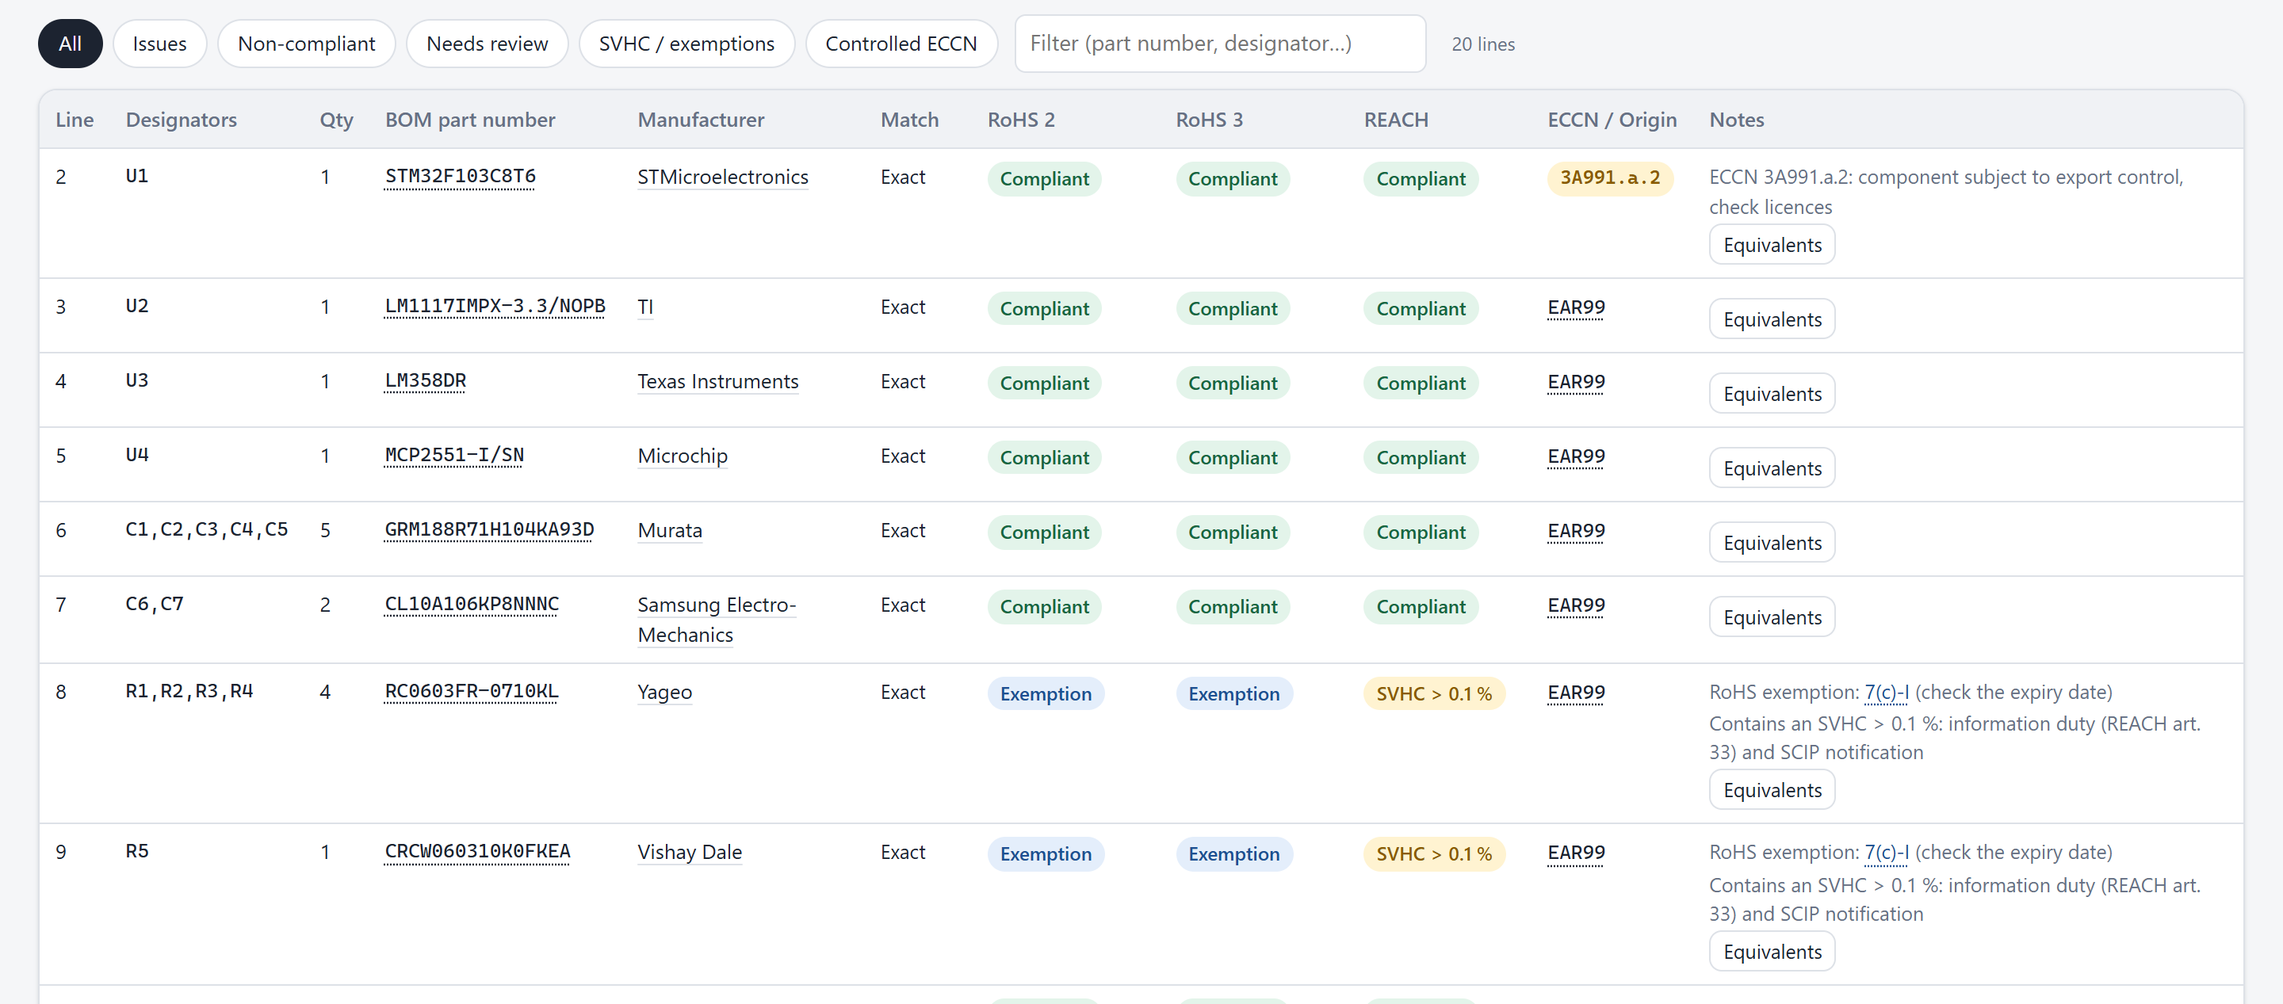
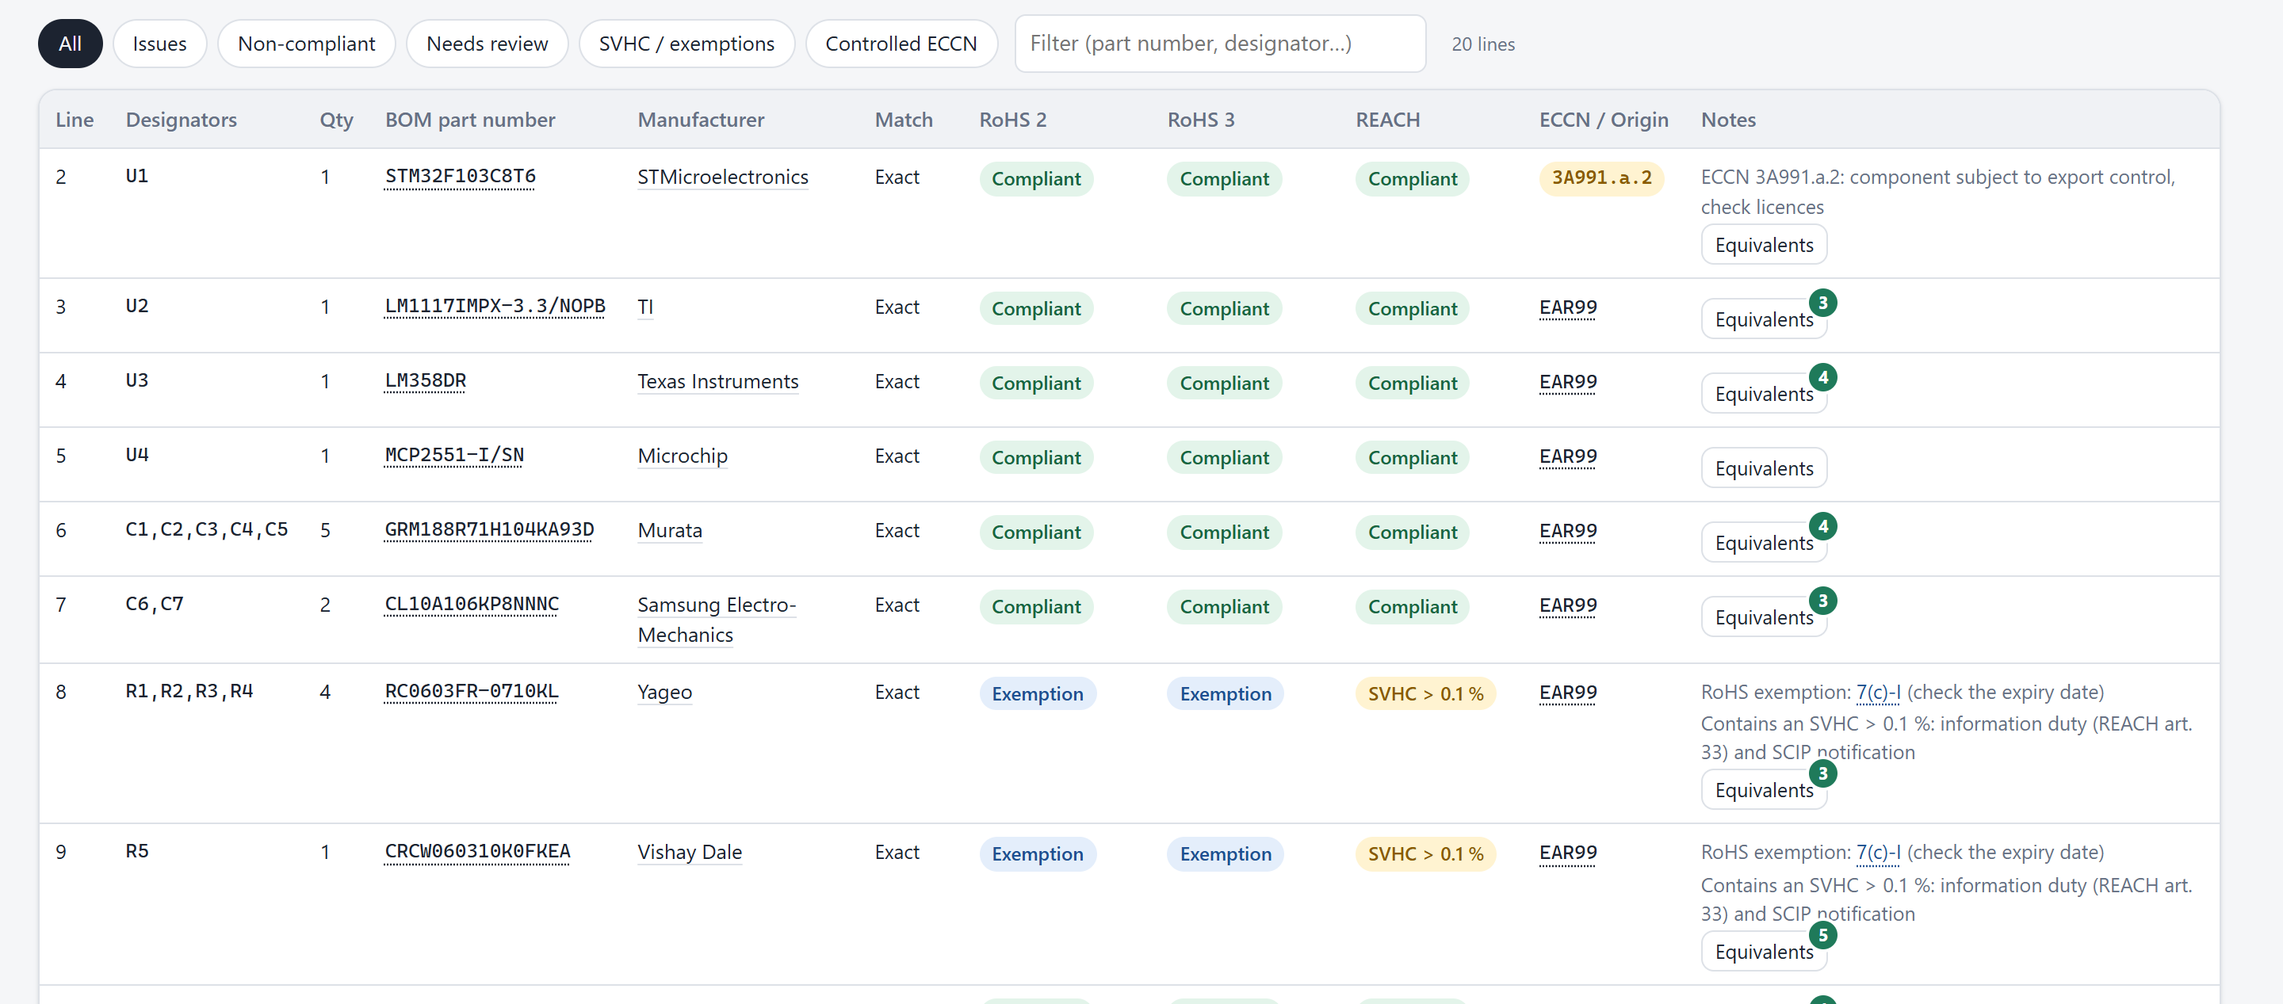
Version 2.0.0: README and screenshots updated
- README: new sections for the "needs review" lines classified by hand, the
  component pages and the SVHC tab, with their screenshots; internal
  reference, progress message, server banner, equivalents counter, approved
  edit access and Excel formats mentioned; architecture with svhc.py,
  editors.py, ECHA and Brevo; release history: v2.0.0 (#19 to #39).
- All the screenshots taken again on the demo database (tools/screenshots.py
  updated: equivalents opened from their button, new captures).
- Component pages: long validity labels wrap instead of squeezing the
  official text of the exemption.

The version is already 2.0.0 in pyproject.toml and the API; the v2.0.0 tag
will publish the release.

diff --git a/app/static/style.css b/app/static/style.css
@@ -69,6 +69,7 @@ h2 { font-size: 17px; margin: 0 0 14px; }
 .regcards { display: grid; grid-template-columns: repeat(auto-fit, minmax(300px, 1fr)); gap: 12px; align-items: start; }
 .regcard h3 { margin: 0; font-size: 16px; }
 .regcard h4 { margin: 14px 0 6px; font-size: 13.5px; }
+.regcard .grid .badge { white-space: normal; border-radius: 8px; }  /* long validity labels wrap instead of squeezing the official text */
 .reghead { display: flex; justify-content: space-between; align-items: center; gap: 10px; margin-bottom: 6px; }
 .headbtns { display: flex; gap: 8px; flex-wrap: wrap; }
 a.comp-link { color: inherit; text-decoration: underline dotted; text-underline-offset: 3px; }

diff --git a/app/static/index.html b/app/static/index.html
@@ -4,7 +4,7 @@
 <meta charset="utf-8">
 <meta name="viewport" content="width=device-width, initial-scale=1">
 <title>RoHS / REACH Checker</title>
-<link rel="stylesheet" href="/static/style.css?v=35">
+<link rel="stylesheet" href="/static/style.css?v=36">
 </head>
 <body>
 <header class="top">
@@ -627,6 +627,6 @@
   </form>
 </dialog>
 
-<script src="/static/app.js?v=35"></script>
+<script src="/static/app.js?v=36"></script>
 </body>
 </html>

diff --git a/tools/screenshots.py b/tools/screenshots.py
@@ -68,38 +68,60 @@ def main(base: str) -> None:
         page.locator("#filters").scroll_into_view_if_needed()
         shot(page, "lines", clip=clip_between(page, "#filters", "#lines tbody tr:nth-child(8)"), full_page=True)
 
-        # 3. Equivalents from other manufacturers for the non-compliant component
-        page.locator("#lines a.mpn-link", has_text="DEMO-LEADED-DIP8").click()
+        # 3. "Needs review" status given by hand: dialog with the reason and the lines with the same reason
+        page.locator("#lines [data-review]").first.click()
+        page.wait_for_selector("#dlgClassify[open]")
+        page.wait_for_timeout(300)
+        page.locator("#dlgClassify").screenshot(path=str(OUT / "classify.png"))
+        print("screenshot: docs/images/classify.png")
+        page.locator("#btnClassifyCancel").click()
+
+        # 4. Equivalents from other manufacturers for the non-compliant component
+        page.locator("#lines tr", has_text="DEMO-LEADED-DIP8").locator("button[data-altline]").click()
         page.wait_for_selector("#altTable")
         page.wait_for_timeout(300)
         page.locator("#dlgAlt").screenshot(path=str(OUT / "equivalents.png"))
         print("screenshot: docs/images/equivalents.png")
 
-        # 4. Replacement in the BOM: new verdict
+        # 5. Replacement in the BOM: new verdict
         page.locator("#altTable [data-use]").first.click()
         page.wait_for_selector("#swapBar:not([hidden])")
         page.wait_for_timeout(500)
         shot(page, "replacement", clip=clip_between(page, "#swapBar", "#cards"), full_page=True)
 
-        # 5. A RoHS exemption's page
+        # 6. A RoHS exemption's page
         page.goto(f"{base}/#exemption/7(c)-I")
         page.wait_for_selector("#exemptInfo dt")
         page.wait_for_timeout(300)
         shot(page, "exemption", clip=clip_between(page, "#exemptDetail .back", "#exemptComps"), full_page=True)
 
-        # 6. An ECCN code's page
+        # 7. An ECCN code's page
         page.goto(f"{base}/#eccn/3A991.a.2")
         page.wait_for_selector("#eccnParts .part")
         page.wait_for_timeout(300)
         shot(page, "eccn", clip=clip_between(page, "#eccnDetail .back", "#eccnInfo"), full_page=True)
 
-        # 7. Manufacturer page
+        # 8. Manufacturer page
         page.goto(f"{base}/#manufacturer/texas%20instruments")
         page.wait_for_selector("#mfrComps tbody tr")
         page.wait_for_timeout(300)
         shot(page, "manufacturer", clip=clip_between(page, "#mfrDetail .back", "#mfrComps", max_height=1100), full_page=True)
 
-        # 8. Column mapping of a file in an unknown format (ERP export with a title block)
+        # 9. Component page: regulations explained, exemption used, SVHC linked to the Candidate List
+        page.goto(f"{base}/#exemption/7(c)-I")
+        page.wait_for_selector("#exemptComps a.comp-link")
+        page.locator("#exemptComps a.comp-link", has_text="CRCW060310K0FKEA").click()
+        page.wait_for_selector("#compSheet .regcard")
+        page.wait_for_timeout(300)
+        shot(page, "component", clip=clip_between(page, "#tab-component .back", "#compSheet .regcards"), full_page=True)
+
+        # 10. SVHC: a substance of the REACH Candidate List and the components that contain it
+        page.goto(f"{base}/#svhc/lead")
+        page.wait_for_selector("#svhcComps tbody tr a.comp-link")
+        page.wait_for_timeout(300)
+        shot(page, "svhc", clip=clip_between(page, "#svhcDetail .back", "#svhcComps"), full_page=True)
+
+        # 11. Column mapping of a file in an unknown format (ERP export with a title block)
         page.set_viewport_size({"width": 1440, "height": 1500})
         page.goto(f"{base}/#analysis")
         page.set_input_files("#bomFile", str(ROOT / "examples" / "bom_erp_format.csv"))

diff --git a/README.md b/README.md
@@ -27,7 +27,7 @@
 ## Features
 
 ### 📋 Bill of materials analysis
-Upload a **CSV or Excel** file (`.xlsx`, `.xlsm`, `.xlsb`, `.xls`) exported from any CAD tool, ERP or distributor: the header row and the columns (manufacturer part number, manufacturer, designators, quantity, do not populate, declared RoHS / REACH statuses…) are detected automatically, in English or French. Each line is matched against the database (exact, close, partial) and gets a **RoHS 2**, **RoHS 3** and **REACH** status. The result: an overall verdict, a pie chart per regulation (click a slice to see the matching lines) and a downloadable **Excel** report.
+Upload a **CSV or Excel** file (`.xlsx`, `.xlsm`, `.xlsb`, `.xls`) exported from any CAD tool, ERP or distributor: the header row and the columns (manufacturer part number, manufacturer, designators, quantity, do not populate, declared RoHS / REACH statuses…) are detected automatically, in English or French. Each line is matched against the database (exact, close, partial) and gets a **RoHS 2**, **RoHS 3** and **REACH** status. The result: an overall verdict, a pie chart per regulation (click a slice to see the matching lines) and a downloadable **Excel** report. A company **internal reference** column is shown when the BOM has one, a message says that the analysis is in progress (the free server can take a minute to wake up), and a banner says so if the server stops answering.
 
 <img src="docs/images/lines.png" alt="Table of BOM lines with the status per regulation, ECCN and notes" width="100%">
 
@@ -40,12 +40,15 @@ When a file does not look like any known format, for example an ERP export with 
 
 The RoHS / REACH statuses found in the BOM are used. If the component is in the database, the database is authoritative: a disagreement turns the line into "needs review". If it is missing, the BOM status is used and marked "from the BOM".
 
-A "needs review" status can be clicked: the dialog says why, lets you give the line a status, and offers the same status to the other lines that need review for the same reason. These statuses only apply to the analysis (exports and history included), not to the database.
+<img src="docs/images/column_mapping.png" alt="Column mapping dialog: manual choices, RoHS / REACH values of the file, effect of the change on the first 3 lines and result of the reading" width="100%">
 
-<img src="docs/images/column_mapping.png" alt="Column mapping dialog: manual choices, effect of the change on the first 3 lines and result of the reading" width="100%">
+### ✍ "Needs review" lines classified by hand
+A "needs review" status can be clicked: the dialog says **why the line needs review** (component missing from the database, value of the BOM not recognised, disagreement between the BOM and the database, partial match…), lets you give it a status, and offers the same status to the **other lines that need review for the same reason**. These statuses only apply to the analysis: they are marked "by hand" on screen and in the exports and kept in the history, while the component database is unchanged.
+
+<img src="docs/images/classify.png" alt="Dialog to classify a needs review line, with the reason and the other lines needing review for the same reason" width="60%">
 
 ### 🔁 Equivalents from other manufacturers and replacement in the BOM
-For a non-compliant component, or one whose exemption is about to expire, the tool offers **similar components from other manufacturers** (same value, package, voltage…) with their compliance status, explains what matches and what differs, and lets you **substitute them in the BOM** in one click. The modified BOM can be downloaded with a record of the replacements. On a narrow screen (laptop, tablet, phone), each suggestion is shown as a card: the buttons always stay visible.
+For a non-compliant component, or one whose exemption is about to expire, the tool offers **similar components from other manufacturers** (same value, package, voltage…) with their compliance status, explains what matches and what differs, and lets you **substitute them in the BOM** in one click. Every Equivalents button shows how many were found, like a notification counter. The modified BOM can be downloaded with a record of the replacements. On a narrow screen (laptop, tablet, phone), each suggestion is shown as a card: the buttons always stay visible.
 
 <img src="docs/images/equivalents.png" alt="Equivalents dialog: similar components from other manufacturers with their RoHS and REACH status" width="100%">
 
@@ -56,6 +59,16 @@ Each exemption in use (e.g. `7(c)-I`, lead in the glass of resistors) has its ow
 
 <img src="docs/images/exemption.png" alt="Page of RoHS exemption 7(c)-I with official text, dates and components concerned" width="100%">
 
+### 🔎 Component pages: each regulation explained
+Every part number opens the component's page: identification, ECCN with its meaning, country of origin, source, and for **RoHS 2, RoHS 3 and REACH** the status with what it means and what the regulation requires (substances and limits, dates of application, information duty and SCIP notification), the **exemptions used** with their official text and validity, and the **SVHC declared**, linked to the Candidate List.
+
+<img src="docs/images/component.png" alt="Component page: ECCN, origin, and RoHS 2, RoHS 3 and REACH explained with the exemption used and the SVHC declared" width="100%">
+
+### ☣ REACH: substances of very high concern (SVHC)
+The SVHC tab holds the **REACH Candidate List published by ECHA** (501 substances: EC and CAS numbers, date and reason for inclusion). Each substance has its page with the duties it brings and the **database components that contain it**.
+
+<img src="docs/images/svhc.png" alt="Page of the SVHC lead: EC and CAS numbers, reason for inclusion, duties and database components that contain it" width="100%">
+
 ### 🌐 Export control: ECCN codes
 Each ECCN code is broken down (category, product group, reason for control), linked to its **official heading** and to its definition on the US government website.
 
@@ -63,12 +76,10 @@ Each ECCN code is broken down (category, product group, reason for control), lin
 
 ### And also
 - **Home page**: what the tool is for, the regulations checked, how it works and who it is for, with a one-click **example BOM** to try it without a file of your own.
-- **Component pages**: identification, ECCN, and for RoHS 2, RoHS 3 and REACH the status with its meaning, what the regulation requires, the exemptions used and the SVHC declared.
-- **SVHC tab**: the REACH Candidate List published by ECHA (EC and CAS numbers, date and reason for inclusion) and the database components that contain each substance.
 - **Manufacturer pages**: website, headquarters, compliance statistics and list of components in the database.
 - **PDF datasheet import**: extraction of the part number, manufacturer, RoHS/REACH statuses, ECCN and country of origin (rule-based, or with the **Claude API** if a key is configured), with the supporting excerpts.
-- **User accounts**: history of the latest analysed BOMs, reopened against the up-to-date database; sign-ups can be confirmed by e-mail and protected by a captcha.
-- **Country of origin**, editable **component database**, CSV and Excel import/export (an update only changes the columns provided), documented REST API (`/docs`).
+- **User accounts**: history of the latest analysed BOMs, reopened against the up-to-date database; sign-ups can be confirmed by e-mail and protected by a captcha. Changes to the database are reserved for the accounts the **administrator approves by e-mail**, with a daily limit on new components.
+- **Country of origin**, editable **component database**, CSV and Excel import/export (`.xlsx`, `.xlsm`, `.xlsb`, `.xls`, format recognised from the content; an update only changes the columns provided), documented REST API (`/docs`).
 
 <details>
 <summary>See the home page</summary>
@@ -88,7 +99,7 @@ Each ECCN code is broken down (category, product group, reason for control), lin
 |---|---|
 | Back end | **Python 3.12+**, **FastAPI**, Pydantic, SQLite (migrations at start-up) |
 | Front end | HTML / CSS / **framework-free JavaScript**, hand-made SVG charts, light and dark themes, responsive down to mobile (*container queries*) |
-| Documents | openpyxl (Excel), pypdf (datasheets), **Claude** API (optional extraction, structured outputs) |
+| Documents | openpyxl, pyxlsb and xlrd (Excel `.xlsx`, `.xlsb`, `.xls`), pypdf (datasheets), **Claude** API (optional extraction, structured outputs) |
 | Security | Passwords hashed with **scrypt**, `HttpOnly` / `SameSite` cookie sessions, sign-in attempt throttling, sign-ups confirmed by e-mail (**Brevo**) and **Cloudflare Turnstile** captcha (optional), database changes reserved for accounts approved by the administrator by e-mail, with a daily limit on added components |
 | Quality | **pytest** (108 tests), **ruff** and **actionlint** (lint of the code and of the workflows), automated screenshots (Playwright) |
 | DevOps | **GitHub Actions**: CI (lint + tests on 3 Python versions, **Docker** image built once, smoke-tested and published to GHCR, automatic release) and CD (that same image promoted on **Render**: staging, then production after approval) |
@@ -101,13 +112,14 @@ flowchart LR
     API --> AN["Reading and analysis<br/>tables.py · analyzer.py · importer.py"]
     API --> ALT["Equivalents<br/>alternates.py"]
     API --> DS["PDF datasheets<br/>datasheet.py"]
-    API --> REF["Reference texts<br/>exemptions.py · eccn.py"]
-    API --> ACC["Accounts and history<br/>auth.py · history.py"]
+    API --> REF["Reference texts<br/>exemptions.py · eccn.py · svhc.py"]
+    API --> ACC["Accounts, edit access and history<br/>auth.py · editors.py · history.py"]
     AN --> DB[("SQLite")]
     ALT --> DB
     ACC --> DB
-    REF --> TXT[("Official texts<br/>EUR-Lex · eCFR")]
+    REF --> TXT[("Official texts<br/>EUR-Lex · eCFR · ECHA")]
     DS -. "optional" .-> CL["Claude API"]
+    ACC -. "e-mails" .-> MAIL["Brevo"]
 ```
 
 ## Way of working
@@ -129,7 +141,7 @@ Every change goes through a reviewed pull request, linked to its issue.
 | | [#13](https://github.com/ElliotGalaor/ElectronicEnvironmental/pull/13) | Equivalents dialog readable on every screen: cards when space runs out |
 | | [#14](https://github.com/ElliotGalaor/ElectronicEnvironmental/pull/14) | Presentation README with screenshots, separate technical guide |
 | [**v1.1.0**](https://github.com/ElliotGalaor/ElectronicEnvironmental/releases/tag/v1.1.0) | [#16](https://github.com/ElliotGalaor/ElectronicEnvironmental/pull/16) | **Manual column mapping** for files in an unknown format: preview of the result and of each change, database import simulated before writing, RoHS / REACH statuses read from the BOM; fix: a database update no longer erases the fields missing from the file |
-| *next* (v2.0.0) | [#19](https://github.com/ElliotGalaor/ElectronicEnvironmental/pull/19) | **Everything in English**: code, comments, interface, reports, documentation and official texts (English EUR-Lex version). Status values become `compliant`, `non_compliant`, `unknown`, `needs_review`…; databases created with v1 are converted automatically at start-up |
+| [**v2.0.0**](https://github.com/ElliotGalaor/ElectronicEnvironmental/releases/tag/v2.0.0) | [#19](https://github.com/ElliotGalaor/ElectronicEnvironmental/pull/19) | **Everything in English**: code, comments, interface, reports, documentation and official texts (English EUR-Lex version). Status values become `compliant`, `non_compliant`, `unknown`, `needs_review`…; databases created with v1 are converted automatically at start-up |
 | | [#21](https://github.com/ElliotGalaor/ElectronicEnvironmental/pull/21) | **Online deployment on Render** (free plan, HTTPS): `render.yaml` Blueprint and *Deploy to Render* button, admin token generated at creation, redeployment by the CD workflow after every merge to `main` |
 | | [#22](https://github.com/ElliotGalaor/ElectronicEnvironmental/pull/22) | **Sign-up protection** (optional): account created only once confirmed through a link sent by e-mail (Brevo API, works on Render's free plan), Cloudflare Turnstile captcha, limits per address and per connection |
 | | [#23](https://github.com/ElliotGalaor/ElectronicEnvironmental/pull/23) | **Home page** presenting the tool (regulations checked, steps, intended users) with a sample result, and a one-click example BOM |
@@ -147,6 +159,7 @@ Every change goes through a reviewed pull request, linked to its issue.
 | | [#36](https://github.com/ElliotGalaor/ElectronicEnvironmental/pull/36) | **Status values chosen at import**: the column mapping dialog lists the RoHS / REACH values of the file and lets you choose what each means (or refuse it), for BOMs and database imports; choices remembered in the browser |
 | | [#37](https://github.com/ElliotGalaor/ElectronicEnvironmental/pull/37) | **Charts as filters**: clicking a slice or a legend row of a compliance chart shows only the lines with that status for that regulation |
 | | [#38](https://github.com/ElliotGalaor/ElectronicEnvironmental/pull/38) | **Server unavailable**: a banner says that the site is not working when the server, its database or the hosting does not answer, and checks every 30 seconds whether it is back; `/api/health` and clear JSON answers for server errors |
+| | [#39](https://github.com/ElliotGalaor/ElectronicEnvironmental/pull/39) | **Version 2.0.0**: README and screenshots updated (component pages, SVHC, "needs review" by hand, status values), validity labels wrapped on component pages |
 
 ## Quick start
 
@@ -156,7 +169,7 @@ Every change goes through a reviewed pull request, linked to its issue.
 docker run -p 8000:8000 -v rohs-data:/data ghcr.io/elliotgalaor/electronicenvironmental
 ```
 
-Then open http://localhost:8000. The database is initialised with 129 demo components. For a specific version, add its number to the image (`…/electronicenvironmental:1.1.0`).
+Then open http://localhost:8000. The database is initialised with 129 demo components. For a specific version, add its number to the image (`…/electronicenvironmental:2.0.0`).
 
 To try it: drop [`examples/bom_example.csv`](examples/bom_example.csv) (CAD format, columns recognised automatically), then [`examples/bom_erp_format.csv`](examples/bom_erp_format.csv) (unknown format: the column mapping dialog opens).
 
